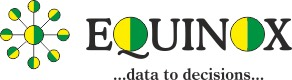
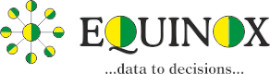
Modified recruiter images to same size

diff --git a/static/website/templates/job-fair.html b/static/website/templates/job-fair.html
@@ -59,13 +59,13 @@
             <a href="http://www.equinoxsoftwareservices.com/index.php/Home"><img alt="" class="img-responsive center-block img-rounded" src="{% static 'website/bootstrap-css/assets/images/recruiters/equinox.jpg' %}"></a>
         </figure>
       </div>
-      <div class="col-md-6">
+      <div class="col-md-6" style="margin-top: 1%;">
         <figure>
             <a href="http://www.ingenero.com/"><img alt="" class="img-responsive center-block img-rounded" src="{% static 'website/bootstrap-css/assets/images/recruiters/ingenero.jpg' %}"></a>                
         </figure>
-      </div><br><br>
+      </div>
+    </div><br><br>
       <p class="text-justify">More companies will be updated soon...</p>
-    </div>
     </div>
 	</section>
 

diff --git a/static/website/templates/home.html b/static/website/templates/home.html
@@ -41,7 +41,7 @@
                 </div>
                 <div class="col-sm-4">
                     <i class="ion-speakerphone"></i>
-                    <h3>Paper Submission in Progress</h3>
+                    <h3>Registration in Progress</h3>
                 </div>
             </div><!-- row -->
         </div><!-- container -->
